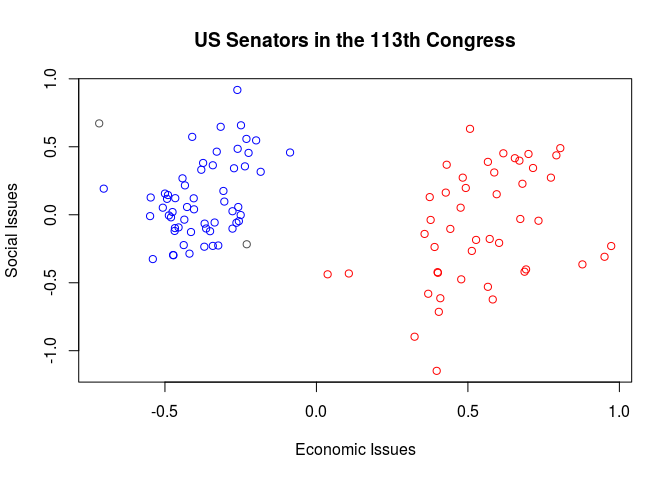
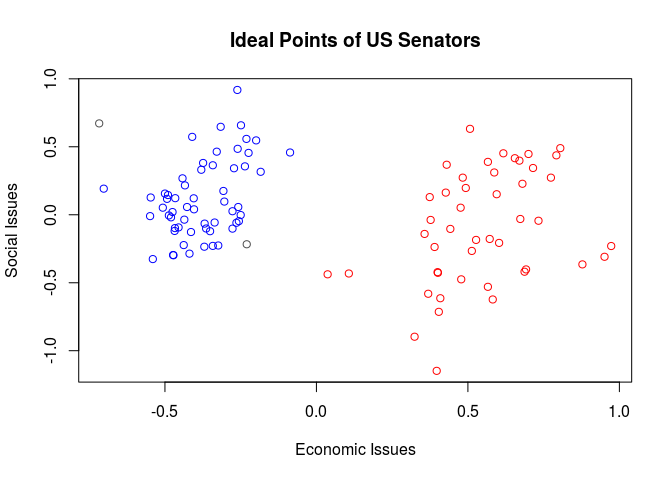
Add elements example to README

Changed region(s): [[0.2812, 0.0625, 0.7812, 0.125]]

diff --git a/README.md b/README.md
@@ -18,8 +18,8 @@ You can install `relatable` from github with:
 devtools::install_github("domjarkey/relatable")
 ```
 
-Examples
---------
+Applications
+------------
 
 ### A simple key-value dictionary
 
@@ -31,24 +31,30 @@ library(relatable)
 relate(c("March", "April", "May"), month.name, month.abb)
 #> [1] "Mar" "Apr" "May"
 
-# Create a reusable dictionary function with relation(). relate() and relation() take
-# additional arguments to determine the type of output and default return values.
-abbrev <- relation(month.name, month.abb, default = "Unknown", named = TRUE)
+# Create a reusable dictionary function with relation().
+chem_symbol <- relation(elements$Name, elements$Symbol)
 
-abbrev("January")
-#> January 
-#>   "Jan"
+chem_symbol(c("Iron", "Lithium", "Sodium"))
+#> [1] "Fe" "Li" "Na"
 
-abbrev(c("September", "October",  "Brumaire"))
-#> September   October  Brumaire 
-#>     "Sep"     "Oct" "Unknown"
+chem_symbol(c("Sodium", "Adamantium")) 
+#> [1] "Na" NA
+
+# relate() and relation() have optional arguments to determine the type of
+# output and default return values.
+chem_symbol <- relation(elements$Name, elements$Symbol,
+  default = "Unknown", named = TRUE)
+
+chem_symbol(c("Sodium", "Adamantium"))
+#>     Sodium Adamantium 
+#>       "Na"  "Unknown"
 ```
 
 ### Ensure expected inputs and safe outputs while manipulating larger data sets
 
 When working with unfamiliar data it can be easy to forget to account for all possible values a variable might take, or worse, typographical errors. Using `allow_default = FALSE`, `relatable` functions can flag unexpected inputs to ensure these problems don't arise.
 
-In the following example we use the [DWNOMINATE](https://voteview.com/about) data set assembled by Poole and Rosenthal et al, which estimates the ideological positions of US politicians. Suppose we want to create a new column in the data frame indicating political party by colour (red for Republicans, blue for Democrats):
+In the following example we use the [DWNOMINATE](https://voteview.com/about) data set assembled by Poole and Rosenthal et al, which estimates the ideological positions of US politicians. Suppose we want to create a new column for our data frame indicating political party by colour (red for Republicans, blue for Democrats):
 
 ``` r
 # Obtain data for Senators in the 113th Congress, spanning 2013-2015.
@@ -86,7 +92,7 @@ with(
     x = dwnom1,
     y = dwnom2,
     col = colour,
-    main = "US Senators in the 113th Congress",
+    main = "Ideal Points of US Senators",
     xlab = "Economic Issues",
     ylab = "Social Issues"
   )
